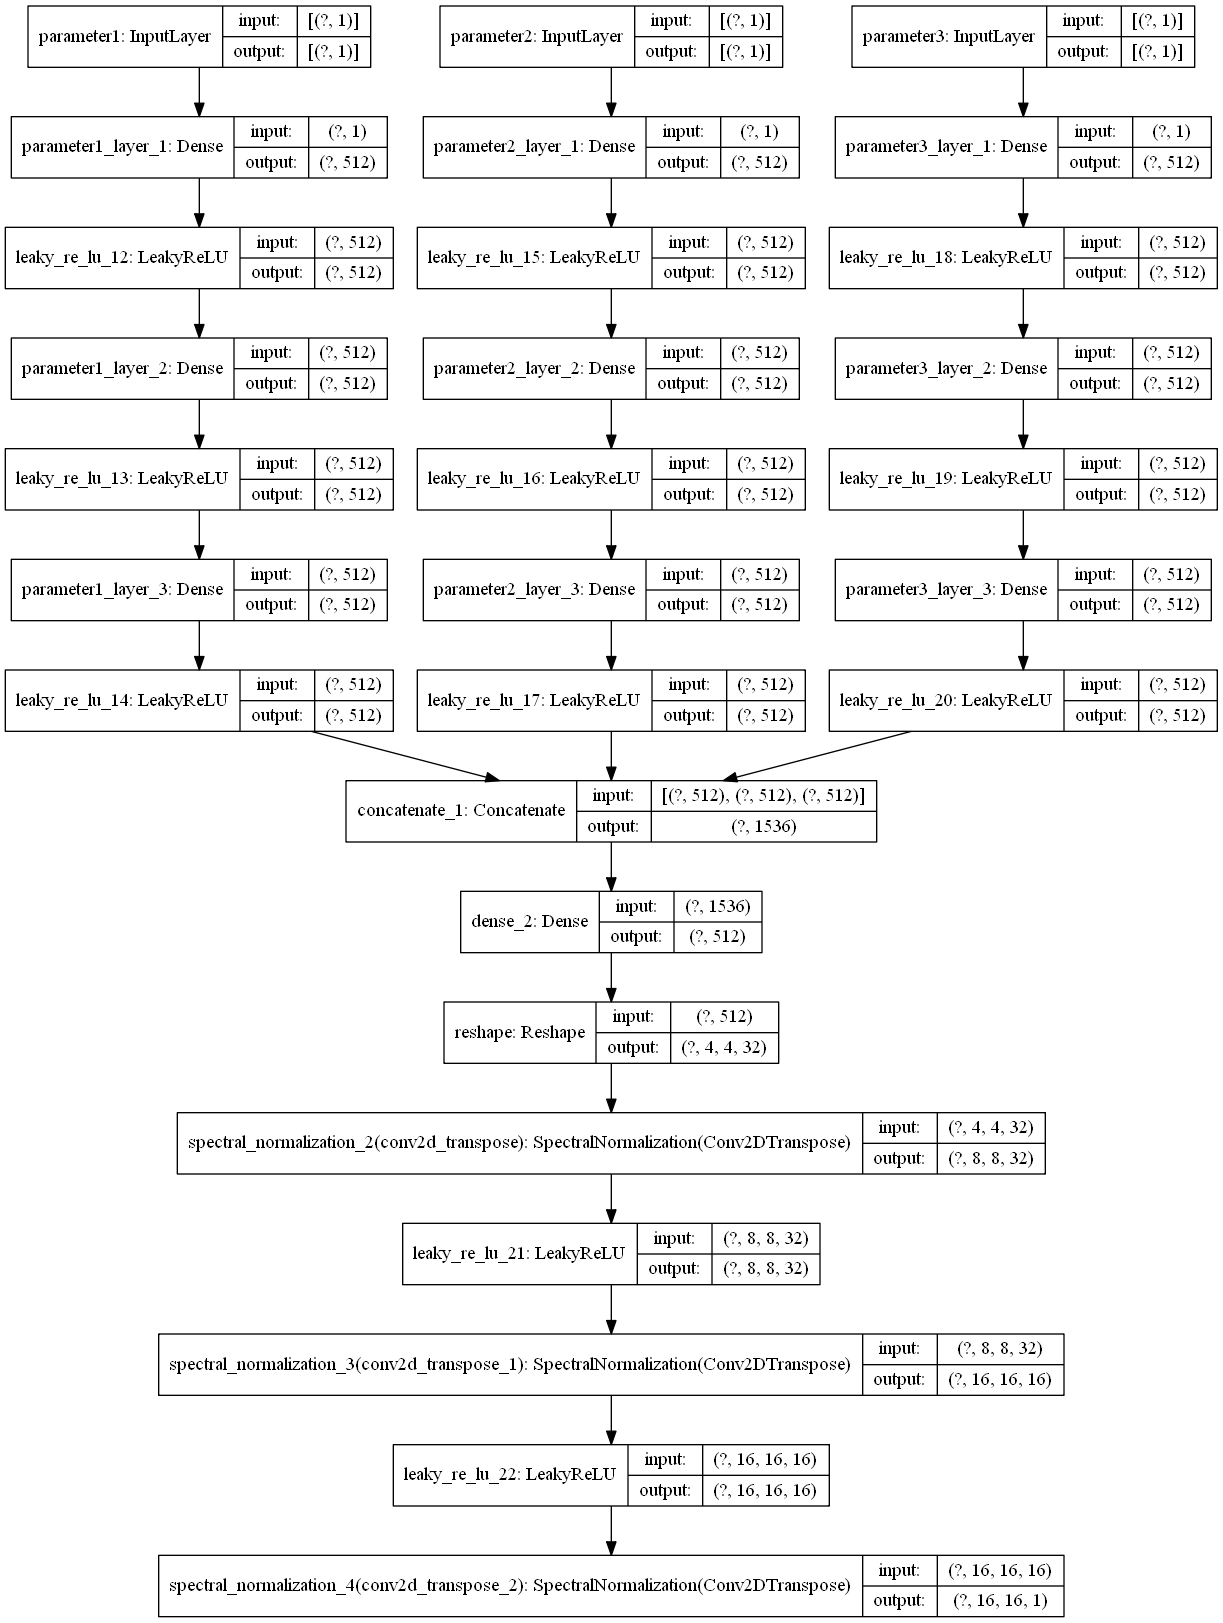
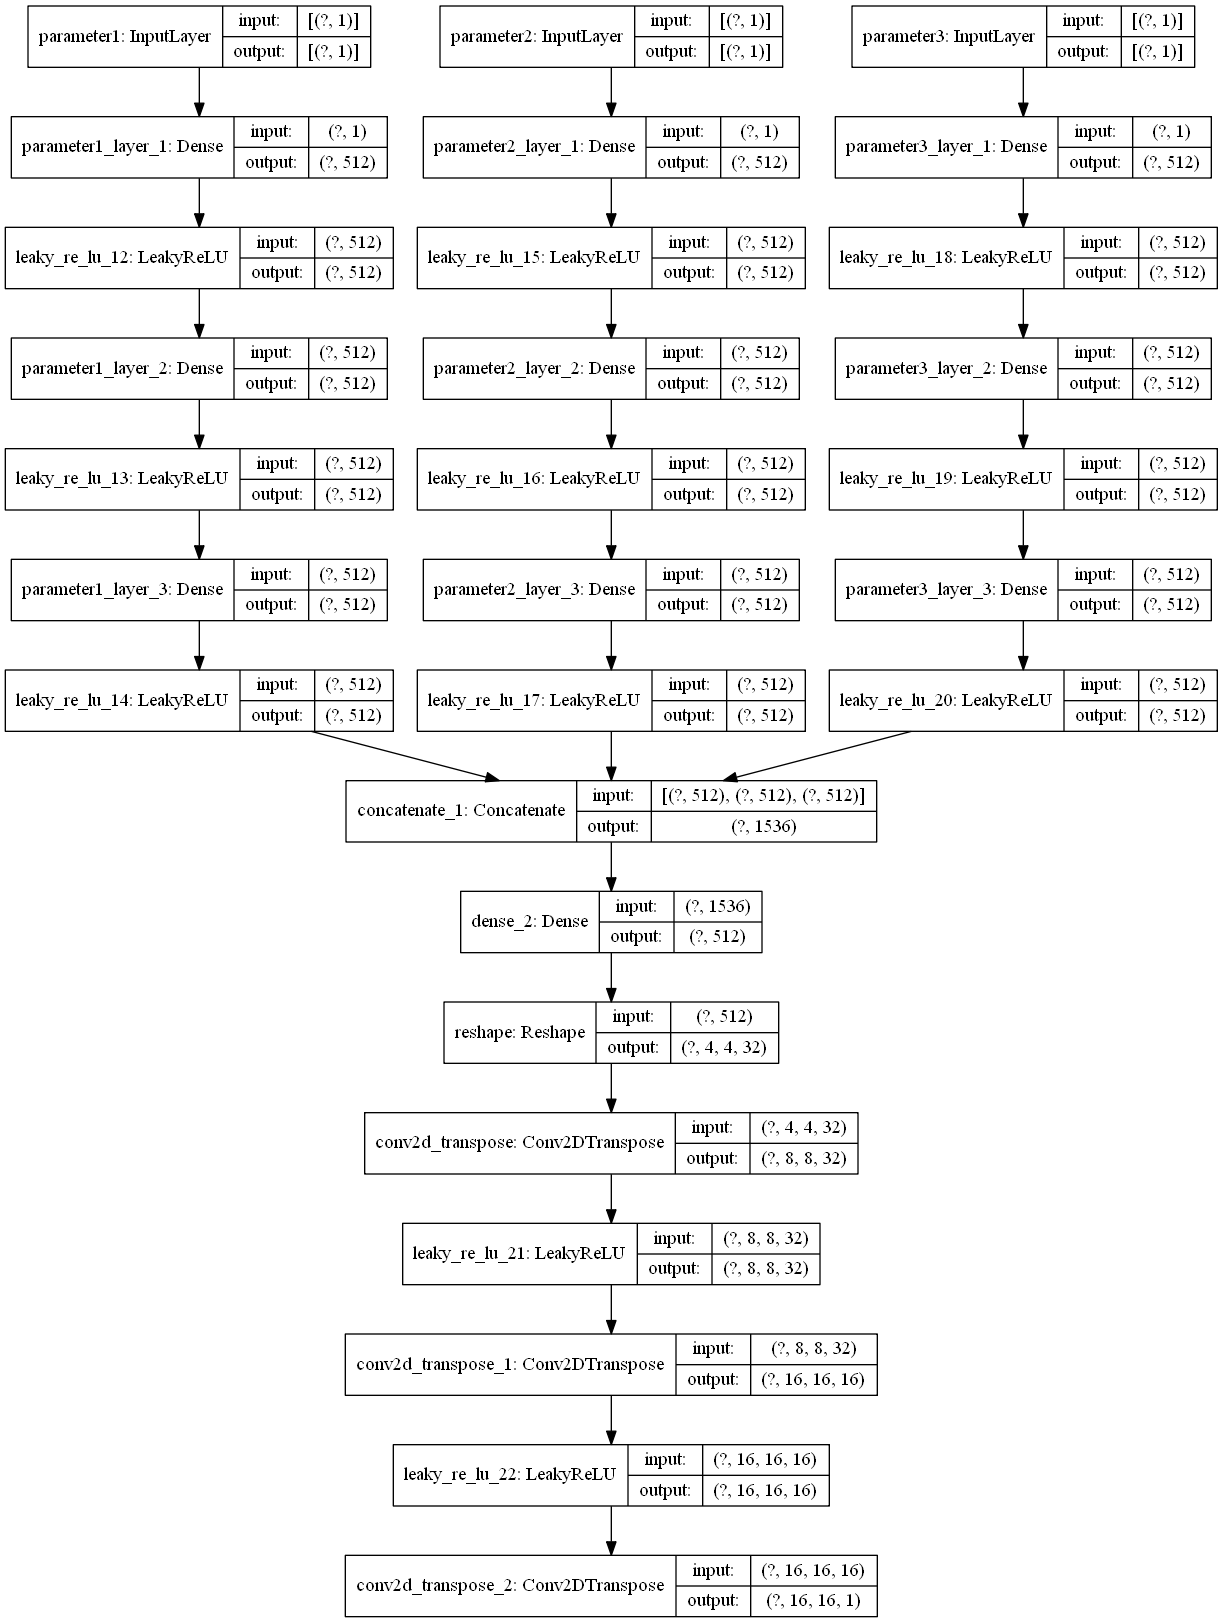
0715 nothing

diff --git a/GAN_version16_16.py b/GAN_version16_16.py
@@ -101,20 +101,20 @@ class GAN():
 
         self.trainSize = 699
         self.filterNumber = 16
-        self.L2_coefficient =100# 1/(length*width*height)
+        self.L2_coefficient =0.5# 1/(length*width*height)
 
   
         
         
         self.dis = self.discriminator()
-        self.disrOptimizer = keras.optimizers.RMSprop(lr = 0.002, 
+        self.disrOptimizer = keras.optimizers.RMSprop(lr = 0.0002, 
                                                           clipvalue = 1.0, 
-                                                          decay = 1e-4)
+                                                          decay = 1e-8)
         # self.disrOptimizer = keras.optimizers.Adam(lr = 0.0002, beta_1 = 0.5, beta_2 = 0.9)
         self.gen = self.generator()
-        self.genOptimizer = keras.optimizers.RMSprop(lr = 0.0005, 
-                                                    clipvalue = 10.0, 
-                                                    decay = 1e-4)
+        self.genOptimizer = keras.optimizers.RMSprop(lr = 0.00005, 
+                                                    clipvalue = 1.0, 
+                                                    decay = 1e-8)
         # self.genOptimizer = keras.optimizers.Adam(lr = 0.00005, beta_1 = 0.5, beta_2 = 0.9)                                            
         self.decod = self.decoder()
         self.decoderOptimizer = keras.optimizers.Adam(lr = 0.0002, beta_1 = 0.5, beta_2 = 0.9)
@@ -162,12 +162,14 @@ class GAN():
         g = layers.Reshape((4, 4, 2*self.filterNumber))(g)
         
         for i in range(int(log(self.width/4, 2))-1, -1, -1):
-            g = SpectralNormalization(layers.Conv2DTranspose((2**i)*self.filterNumber, kernel_size=3, strides=2, padding='same', use_bias=False))(g)
+           # g = SpectralNormalization(layers.Conv2DTranspose((2**i)*self.filterNumber, kernel_size=3, strides=2, padding='same', use_bias=False))(g)
+            g = layers.Conv2DTranspose((2**i)*self.filterNumber, kernel_size=3, strides=2, padding='same', use_bias=False)(g)
             
             g = layers.LeakyReLU()(g)
         
 
-        g = SpectralNormalization(layers.Conv2DTranspose(1, kernel_size=3, strides=1, padding='same', use_bias=False))(g)
+        #g = SpectralNormalization(layers.Conv2DTranspose(1, kernel_size=3, strides=1, padding='same', use_bias=False))(g)
+        g = layers.Conv2DTranspose(1, kernel_size=3, strides=1, padding='same', use_bias=False)(g)
         
         #g = layers.Activation(tf.nn.tanh)(g)
         
@@ -222,11 +224,13 @@ class GAN():
         xyz = layers.LeakyReLU()(xyz)
         
 
-        d = SpectralNormalization(layers.Conv2D(self.filterNumber, kernel_size=3, strides=2, padding='same', use_bias=False))(dataInput)
+        #d = SpectralNormalization(layers.Conv2D(self.filterNumber, kernel_size=3, strides=2, padding='same', use_bias=False))(dataInput)
+        d = layers.Conv2D(self.filterNumber, kernel_size=3, strides=2, padding='same', use_bias=False)(dataInput)
         
         d = layers.LeakyReLU()(d)
         for i in range(1, int(log(self.width/8, 2))+1):
-            d = SpectralNormalization(layers.Conv2D((2**i)*self.filterNumber, kernel_size=3, strides=2, padding='same', use_bias=False))(d)
+            d = layers.Conv2D((2**i)*self.filterNumber, kernel_size=3, strides=2, padding='same', use_bias=False)(d)
+            #d = SpectralNormalization(layers.Conv2D((2**i)*self.filterNumber, kernel_size=3, strides=2, padding='same', use_bias=False))(d)#
             
             d = layers.LeakyReLU()(d)
         
@@ -242,7 +246,7 @@ class GAN():
         #r = layers.Activation(tf.nn.tanh)(r)
 
 
-        model = keras.Model(inputs = [parameter1_input, parameter2_input, parameter3_input, dataInput], outputs = d)
+        model = keras.Model(inputs = [parameter1_input, parameter2_input, parameter3_input, dataInput], outputs = r)
         plot_model(model, to_file = "WGAN_Discriminator.png", show_shapes=True)
         return model
     
@@ -288,7 +292,7 @@ class GAN():
             inter = (alpha * a) + ((1-alpha)*b)
             inter.set_shape(a.shape)
             return inter
-        x_img = _interpolate(real_data[1][0], fake_data)
+        x_img = _interpolate(real_data[1][1], fake_data)
         with tf.GradientTape() as tape:
             tape.watch(x_img)
             pred_logit = dis([real_data[0][0], real_data[0][1], real_data[0][2], x_img])
@@ -373,7 +377,7 @@ class GAN():
             mean = tf.reduce_mean(ds)
             std = tf.math.reduce_std(ds) 
             #M_S = tf.stack([tf.math.log(mean), tf.math.log(std)])         
-            return (ds-mean)/std, ds #M_S
+            return ds, (ds-mean)/std #M_S
             
         AUTOTUNE = tf.data.experimental.AUTOTUNE
         data = data.map(process_input_data, num_parallel_calls=AUTOTUNE)
@@ -397,7 +401,7 @@ class GAN():
                 # real_data 中 real_data[0] 代表三input parameter 也就是 real_data[0][0] real_data[0][1] 和 real_data[0][2]
                 # real_data 中 real_data[1] 分別是 real_data[1][0]: 壓縮後， real_data[1][1]:壓縮前， real_data[1][2]: 平均數， real_data[1][3]: 標準差 
                 d_loss, gp = self.train_discriminator(real_data)
-                g_loss = self.train_generator(real_data)
+                g_loss= self.train_generator(real_data)
                 # de_loss = self.train_decoder(real_data)
                 
                 # predi_mean = tf.reshape(self.decod([real_data[0][0], real_data[0][1], real_data[0][2]])[:, 0], [self.batchSize, 1, 1, 1])
@@ -410,16 +414,17 @@ class GAN():
                 
                 # MSE = tf.reduce_mean(tf.keras.losses.MSE((predi_data*tf.math.exp(predi_std) + tf.math.exp(predi_mean)), real_data[1][1]))
                 MSE = tf.reduce_mean(tf.keras.losses.MSE(real_data[1][1] ,  predi_data))
-                l2 = tf.norm(tensor = real_data[1][1]-predi_data)
+                training_l2 = tf.norm(tensor = real_data[1][1]-predi_data)
             with summary_writer.as_default():
                 hp.hparams(hparams)
+                tf.summary.scalar('Training L2', training_l2, epoch)
                 tf.summary.scalar('Mean square error', MSE, epoch)
                 tf.summary.scalar('discriminator_loss', d_loss, epoch)
                 tf.summary.scalar('generator_loss', g_loss, epoch)
                 tf.summary.scalar('gradient_penalty', gp, epoch)
-                tf.summary.scalar('L2 loss', l2, epoch)
-            print(f'Epoch: {epoch:6} G Loss: {g_loss:15.2f} D loss: {d_loss:15.2f} GP Loss {gp:15.10f} L2: {l2:20}')
-            saveModel.on_epoch_end(l2)
+                
+            print(f'Epoch: {epoch:6} G Loss: {g_loss:15.2f} D loss: {d_loss:15.2f} GP Loss {gp:15.2f} Training L2: {training_l2:15.2f} Training MSE {MSE:15.2f}')
+            saveModel.on_epoch_end(training_l2)
             if epoch%1000 == 0:
                 saveModel.save_model()
             epoch += 1

diff --git a/SaveModel.py b/SaveModel.py
@@ -37,6 +37,6 @@ class SaveModel(tf.keras.callbacks.Callback):
             self.counter = 0
         else:
             self.counter += 1
-            if self.counter >= 100:
+            if self.counter >= 1000:
                 self.save_model()
                 self.training = False
